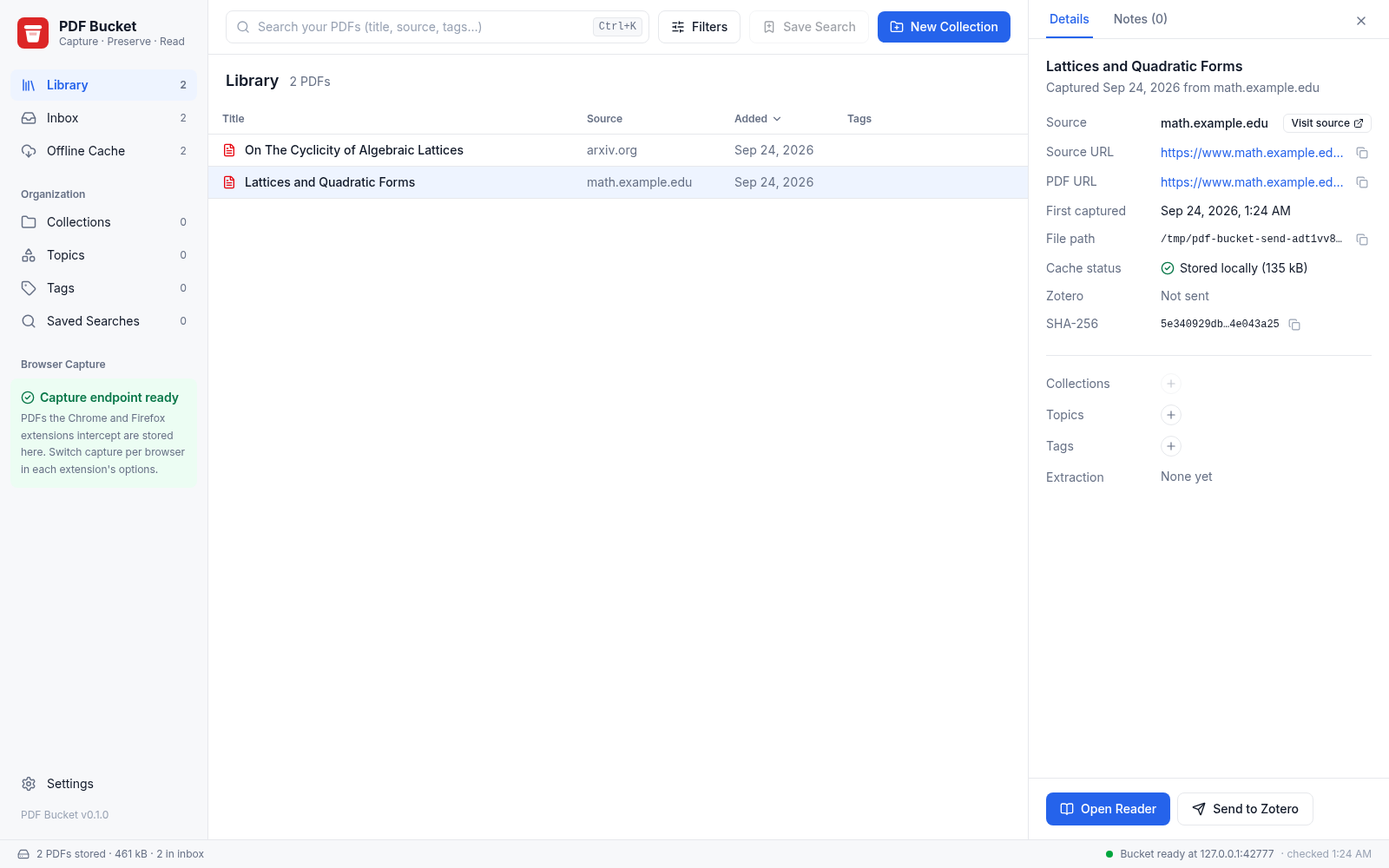
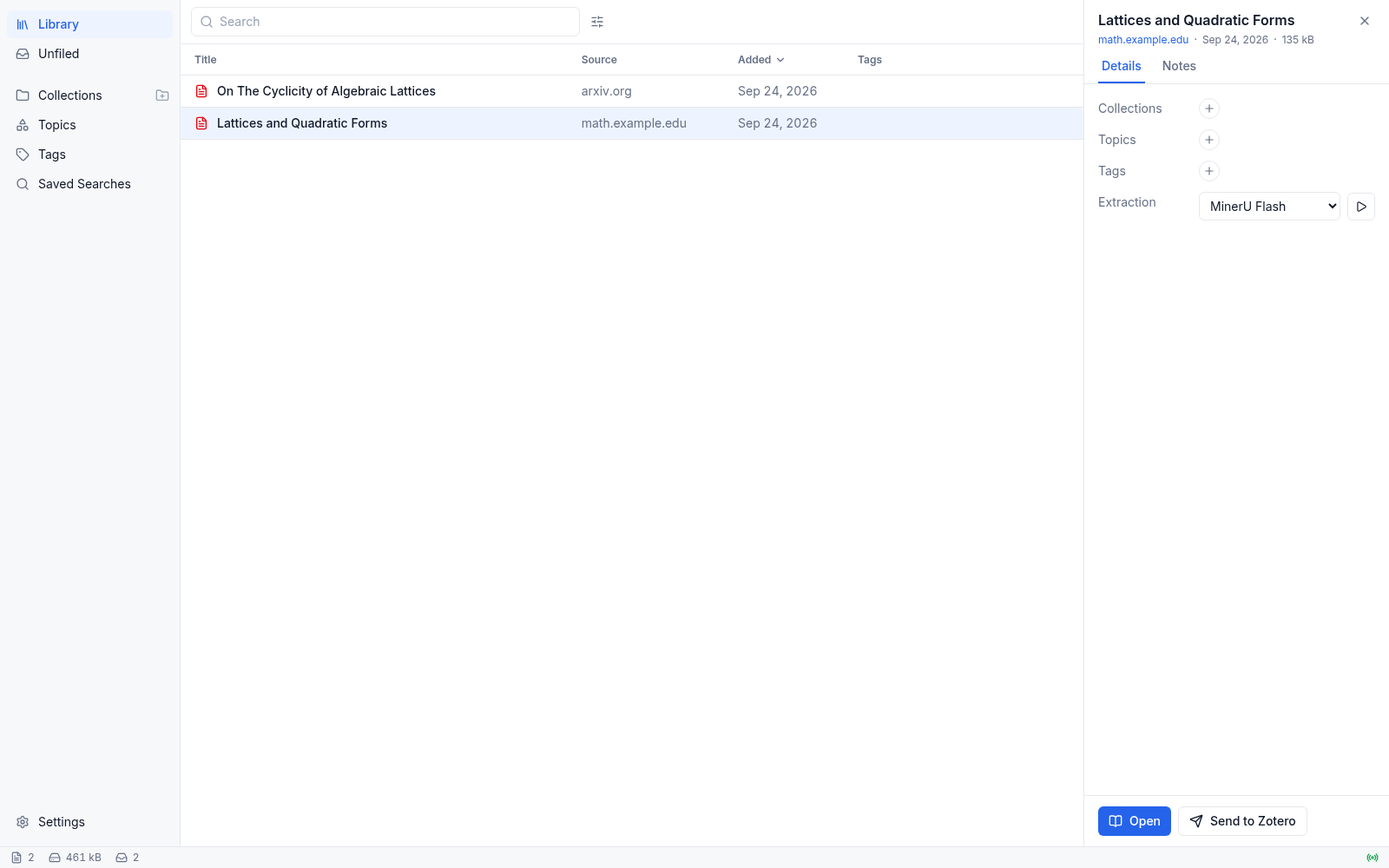
docs: describe the reading-app library, reader and send in M2, M3 and AGENTS.md
docs/m2.md lists what the library window, reader and settings now show and
the workflows tests/library-e2e.test.ts drives; the mockup table gains the
elements left out by decision (Offline Cache, reader provenance panel, the
descriptive settings sections). docs/m3.md: a completed send removes the
item; DELETE works on any item; the step table sits after the list
(flowmark de-indents a table nested in a list item, dzackgarza/flowmark#42).
AGENTS.md's mockup mapping follows. scripts/library_screenshots.py drives
the new labels (Search, Add tag combobox, New collection, Ctrl+P, Command,
Run extraction); M3 and M4 screenshots regenerated; the send-sent and
remove-confirm shots are gone with the states they showed.

Refs #17

diff --git a/scripts/library_screenshots.py b/scripts/library_screenshots.py
@@ -185,7 +185,7 @@ def chromium_screens(out: Path, origins: dict[str, str], filed: dict[str, str]) 
         page = browser.new_page(viewport=VIEWPORT)
 
         page.goto(origins["empty"])
-        page.get_by_text("No PDFs in the bucket yet").wait_for()
+        page.get_by_text("No PDFs yet").wait_for()
         shoot(page, out, "library-empty")
 
         page.goto(origins["broken"])
@@ -219,7 +219,7 @@ def chromium_screens(out: Path, origins: dict[str, str], filed: dict[str, str]) 
         shoot(page, out, "inspector-notes")
         page.get_by_role("tab", name="Details").click()
 
-        search = page.get_by_role("searchbox", name="Search your PDFs")
+        search = page.get_by_role("searchbox", name="Search")
         started = time.perf_counter()
         search.fill("flips mmp")
         page.wait_for_function("document.querySelectorAll('tbody tr').length < 1000")
@@ -234,12 +234,12 @@ def chromium_screens(out: Path, origins: dict[str, str], filed: dict[str, str]) 
 
         details = page.get_by_role("complementary", name="Item details")
         details.get_by_role("button", name="Add tag").click()
-        details.get_by_role("combobox", name="Add tag").fill("reread")
+        page.get_by_role("combobox", name="Tag").fill("reread")
         page.keyboard.press("Enter")
         details.get_by_role("button", name="Remove reread").wait_for()
         shoot(page, out, "inspector-tag-added")
 
-        page.get_by_role("button", name="New Collection").click()
+        page.get_by_role("button", name="New collection").click()
         page.get_by_role("dialog").get_by_role("textbox").fill("Reading Group")
         shoot(page, out, "dialog-new-collection")
         page.get_by_role("dialog").get_by_role("button", name="Create").click()
@@ -248,12 +248,12 @@ def chromium_screens(out: Path, origins: dict[str, str], filed: dict[str, str]) 
         page.goto(origins["seeded"])
         page.get_by_role("row").nth(1).wait_for()
 
-        page.keyboard.press("Control+k")
-        page.get_by_placeholder("Search PDFs, or type > for commands").fill("cone conjecture")
+        page.keyboard.press("Control+p")
+        page.get_by_placeholder("Go to PDF").fill("cone conjecture")
         shoot(page, out, "palette-items")
         page.keyboard.press("Escape")
         page.keyboard.press("Control+Shift+P")
-        page.get_by_placeholder("Run a command").wait_for()
+        page.get_by_placeholder("Command").wait_for()
         shoot(page, out, "palette-commands")
         page.keyboard.press("Escape")
 
@@ -271,10 +271,8 @@ def chromium_screens(out: Path, origins: dict[str, str], filed: dict[str, str]) 
         shoot(page, out, "organization-saved")
 
         page.goto(f"{origins['seeded']}/#/settings")
-        page.get_by_role("heading", name="Embedded Foundations").wait_for()
+        page.get_by_text("Library folder").wait_for()
         shoot(page, out, "settings")
-        page.get_by_role("heading", name="Embedded Foundations").scroll_into_view_if_needed()
-        shoot(page, out, "settings-foundations")
 
         page.goto(f"{origins['seeded']}/read/{quote(filed['reader'])}")
         page.frame_locator("iframe").locator(".page canvas").first.wait_for()
@@ -424,7 +422,7 @@ def send(out: Path) -> None:
             held: list[Route] = []
             page.route("**/api/items/*/zotero", lambda route: held.append(route))
             details.get_by_role("button", name="Send to Zotero").click()
-            details.get_by_role("button", name="Sending to Zotero…").wait_for()
+            details.get_by_role("button", name="Send to Zotero", disabled=True).wait_for()
             shoot(page, out, "send-sending")
             for route in held:
                 route.continue_()
@@ -433,18 +431,11 @@ def send(out: Path) -> None:
             shoot(page, out, "send-failed")
 
             page.get_by_role("row").filter(has_text="On The Cyclicity").click()
-            details.get_by_role("button", name="Remove from bucket").wait_for()
-            shoot(page, out, "send-sent")
-
             page.keyboard.press("Control+Shift+P")
-            page.get_by_placeholder("Run a command").fill("Send selected")
+            page.get_by_placeholder("Command").fill("Send Selected")
             page.keyboard.press("Enter")
             details.get_by_role("alert").wait_for()
             shoot(page, out, "send-refused")
-
-            details.get_by_role("button", name="Remove from bucket").click()
-            page.get_by_role("alertdialog").wait_for()
-            shoot(page, out, "send-remove-confirm")
             browser.close()
 
 
@@ -493,13 +484,13 @@ def extract(out: Path) -> None:
             plugin = details.get_by_label("Extraction plugin")
 
             page.get_by_role("row").filter(has_text="Lattices and Quadratic Forms").click()
-            details.get_by_role("button", name="Run").wait_for()
+            details.get_by_role("button", name="Run extraction").wait_for()
             shoot(page, out, "extract-idle")
 
             held: list[Route] = []
             page.route("**/api/items/*/extractions/*", lambda route: held.append(route))
-            details.get_by_role("button", name="Run").click()
-            details.get_by_role("button", name="Running…").wait_for()
+            details.get_by_role("button", name="Run extraction").click()
+            details.get_by_role("button", name="Run extraction", disabled=True).wait_for()
             shoot(page, out, "extract-running")
             for route in held:
                 route.continue_()
@@ -509,12 +500,12 @@ def extract(out: Path) -> None:
 
             page.get_by_role("row").filter(has_text="Ten Lectures on Integral Lattices").click()
             plugin.select_option("fail")
-            details.get_by_role("button", name="Run").click()
+            details.get_by_role("button", name="Run extraction").click()
             details.get_by_role("alert").wait_for()
             shoot(page, out, "extract-failed")
 
             plugin.select_option("markdown")
-            details.get_by_role("button", name="Run").click()
+            details.get_by_role("button", name="Run extraction").click()
             details.get_by_role("alert").filter(has_text="did not run").wait_for()
             shoot(page, out, "extract-rejected")
             browser.close()

diff --git a/docs/m3.md b/docs/m3.md
@@ -8,23 +8,27 @@ Recorded on 2026-09-24 (UTC 2026-09-23) on the development workstation against t
 
 1. `pdfbucket resolve <root> <key> plugins/manifests/resolvers.json` lists the item's identifier candidates in order: the source URL, the PDF URL, then the identifiers embedded in the PDF (`/arXivID` and `/DOI` in the document information dictionary, which arXiv's generated PDFs carry; `prism:doi` and `prism:isbn` in XMP). The first candidate that a plugin's identifier pattern accepts goes to that plugin on stdin; the plugin prints one BibTeX entry.
 
-2. With no accepted candidate, the entry is `@unpublished` (Zotero's manuscript type) carrying only the title hint. No other field is written.
+2. With no accepted candidate, the entry is `@unpublished` (Zotero's manuscript type) carrying only the title hint.
+   No other field is written.
 
-3. `import_bibtex` creates the item in the library root, except for an arXiv identifier: Zotero's BibTeX import maps `@misc` to `document` and maps no entry type to `preprint`, so an arXiv item is created with `import_by_identifier` on `arXiv:<id>`, Zotero's own arXiv translator (the arxiv resolver has already confirmed the id against arXiv). The bucket records the Zotero key in `organization.json` at once, then each later step as it lands:
+3. `import_bibtex` creates the item in the library root, except for an arXiv identifier: Zotero's BibTeX import maps `@misc` to `document` and maps no entry type to `preprint`, so an arXiv item is created with `import_by_identifier` on `arXiv:<id>`, Zotero's own arXiv translator (the arxiv resolver has already confirmed the id against arXiv).
+   The bucket records the Zotero key in `organization.json` at once, then each later step as it lands:
 
-   | Step | Write API call | What it writes |
-   | --- | --- | --- |
-   | `fields` | `update_item_fields` | `url` = the capture's source URL, `accessDate` = the capture time |
-   | `pdf` | `POST /attach` with the stored bytes, unless the item already has a stored PDF attachment whose file hashes to the capture's original SHA-256 | the stored PDF (provenance embedded), title "Full Text PDF"; or nothing, recording Zotero's own copy of the same bytes (the PDF an identifier import downloads) |
-   | `markdown` | `POST /attach` with the bytes of `<key>.md` | the extraction Markdown as `<ZoteroKey>_extracted.md`, the name the extraction loop's completion criterion looks for |
+| Step | Write API call | What it writes |
+| --- | --- | --- |
+| `fields` | `update_item_fields` | `url` = the capture's source URL, `accessDate` = the capture time |
+| `pdf` | `POST /attach` with the stored bytes, unless the item already has a stored PDF attachment whose file hashes to the capture's original SHA-256 | the stored PDF (provenance embedded), title "Full Text PDF"; or nothing, recording Zotero's own copy of the same bytes (the PDF an identifier import downloads) |
+| `markdown` | `POST /attach` with the bytes of `<key>.md` | the extraction Markdown as `<ZoteroKey>_extracted.md`, the name the extraction loop's completion criterion looks for |
 
-4. A send on an item with no step owed answers `409 already_sent` with the Zotero key and never contacts Zotero. A send that failed part way, or an extraction made after the send, leaves steps owed; the next send performs only those, on the same Zotero item.
+4. A send on an item with no step owed answers `409 already_sent` with the Zotero key and never contacts Zotero.
+   A send that failed part way, or an extraction made after the send, leaves steps owed; the next send performs only those, on the same Zotero item.
 
-5. `DELETE /api/items/<key>` moves a sent item's PDF, Markdown and artifact directory to the desktop trash (`pdfbucket remove`, send2trash). An item whose PDF has not reached Zotero answers `409 not_sent`. Nothing removes an item automatically.
+5. A send that completes every owed step removes the item from the bucket: `pdfbucket remove` moves the PDF, the Markdown and the artifact directory to the desktop trash, and the filing is dropped.
+   `DELETE /api/items/<key>` removes any item the same way without a send.
 
 Resolver failures answer `502 resolver_failed` with the plugin's exit code and last stderr line; a Zotero that refuses or does not answer gives `502 zotero_failed`.
 
-The inspector shows the item's Zotero key, send date and metadata source, and carries Send to Zotero and, once sent, Remove from bucket; the command palette has "Send selected PDF to Zotero".
+Send to Zotero is in the inspector, the row context menu and the command palette ("Send Selected PDF to Zotero"). A failed or refused send shows its reason in the inspector.
 
 ## Resolver plugins
 
@@ -56,17 +60,18 @@ Sends, with Zotero's top-level item count (`Total-Results` of `/api/users/0/item
 
 | Request | Response | Top-level items |
 | --- | --- | --- |
-| before any send | | 1929 |
+| before any send |  | 1929 |
 | `POST /api/items/2609.21174v1/zotero` | `200 {"itemKey":"JPVKRNNI","created":true,"performed":["fields","pdf"]}` | 1930 |
 | the same, again | `409 already_sent: 2609.21174v1 is already in Zotero as JPVKRNNI` | 1930 |
 | `POST /api/items/lecture-notes/zotero` | `200 {"itemKey":"RHRSN93X","created":true,"performed":["fields","pdf","markdown"]}` | 1931 |
 | the same, again | `409 already_sent: lecture-notes is already in Zotero as RHRSN93X` | 1931 |
 
-The first run sent `accessDate` as `YYYY-MM-DD HH:MM:SS`, which `update_item_fields` (a merge into the item's API JSON) drops. With the ISO form `YYYY-MM-DDTHH:MM:SSZ`, the `fields` step was marked owed again in `organization.json` and re-sent: both sends answered `200 {"created":false,"performed":["fields"]}` on JPVKRNNI and RHRSN93X, the count stayed 1931, and repeated sends answered 409 again.
+The first run sent `accessDate` as `YYYY-MM-DD HH:MM:SS`, which `update_item_fields` (a merge into the item's API JSON) drops.
+With the ISO form `YYYY-MM-DDTHH:MM:SSZ`, the `fields` step was marked owed again in `organization.json` and re-sent: both sends answered `200 {"created":false,"performed":["fields"]}` on JPVKRNNI and RHRSN93X, the count stayed 1931, and repeated sends answered 409 again.
 
 The two items read back through `/api/users/0/items/<key>` and `/children`:
 
-| | arXiv PDF | lecture notes |
+|  | arXiv PDF | lecture notes |
 | --- | --- | --- |
 | Zotero key | JPVKRNNI | RHRSN93X |
 | Metadata source | `arxiv` resolver on `https://arxiv.org/abs/2609.21174v1` | none (no identifier): manuscript entry |
@@ -91,7 +96,8 @@ Both items were then moved to the Zotero trash with the write API's `trash_item`
 
 ### arXiv send through Zotero's identifier import
 
-The run above created the arXiv item through `import_bibtex`, and it arrived as `document`: Zotero's BibTeX translator maps `@misc` to `document` and has no mapping to `preprint` for any entry type. The send now creates arXiv items with `import_by_identifier`. Rerun on 2026-09-23 over a fresh root with the same fixture (top-level count 1929 before):
+The run above created the arXiv item through `import_bibtex`, and it arrived as `document`: Zotero's BibTeX translator maps `@misc` to `document` and has no mapping to `preprint` for any entry type.
+The send now creates arXiv items with `import_by_identifier`. Rerun on 2026-09-23 over a fresh root with the same fixture (top-level count 1929 before):
 
 | Request | Response | Top-level items |
 | --- | --- | --- |
@@ -106,7 +112,9 @@ The run above created the arXiv item through `import_bibtex`, and it arrived as 
 | `archiveID` / `repository` / `DOI` | `arXiv:2609.21174` / `arXiv` / `10.48550/arXiv.2609.21174` |
 | children | PH2VKKI7 "Preprint PDF" (`application/pdf`), MAMQJMWA "Snapshot" (`text/html`) |
 
[1 lines of base64/hex data omitted]
+Zotero's import downloaded arXiv's PDF (and, per the user's Zotero preferences, a snapshot).
[1 lines of base64/hex data omitted]
+DPG4XII2 then went to the Zotero trash with `trash_item`; the count returned to 1929.
 
 ## Screenshots
 
@@ -114,16 +122,15 @@ Zotero's import downloaded arXiv's PDF (and, per the user's Zotero preferences, 
 
 | File | State |
 | --- | --- |
-| `m3/send-idle.png` | an unsent item: Zotero "Not sent", Send to Zotero |
-| `m3/send-sending.png` | the send request in flight: "Sending to Zotero…" |
-| `m3/send-failed.png` | Zotero does not answer: the failure and its reason; the button is back for a retry |
-| `m3/send-sent.png` | a sent item: its Zotero key, date and metadata source; "In Zotero as …"; Remove from bucket |
-| `m3/send-refused.png` | the palette's "Send selected PDF to Zotero" on a sent item: "Not sent again: … is already in Zotero as …" |
-| `m3/send-remove-confirm.png` | the confirmation before removal: the PDF and its extraction go to the desktop trash, Zotero keeps the item |
+| `m3/send-idle.png` | an item with Send to Zotero |
+| `m3/send-sending.png` | the send request in flight: the button disabled with a spinner |
+| `m3/send-failed.png` | Zotero does not answer: the reason; the button is back for a retry |
+| `m3/send-refused.png` | the palette's "Send Selected PDF to Zotero" on an item already sent: "… is already in Zotero as …" |
 
 ## The Zotero Connector path
 
-The reader page and its `citation_*` tags are unchanged by M3; `tests/server-capture.test.ts` checks the tags the Connector reads. The end-to-end check, `scripts/connector_save.py` with the Connector build in `tests/fixtures` (docs/m0.md), was re-run on 2026-09-24 against the provisioned bucket, whose reader page carries the M2 provenance panel:
+The reader page and its `citation_*` tags are unchanged by M3; `tests/server-capture.test.ts` checks the tags the Connector reads.
+The end-to-end check, `scripts/connector_save.py` with the Connector build in `tests/fixtures` (docs/m0.md), was re-run on 2026-09-24 against the provisioned bucket, whose reader page carries the M2 provenance panel:
 
 ```console
 $ uv run scripts/connector_save.py http://127.0.0.1:8770/read/1603.04246 connector.png

diff --git a/docs/m2.md b/docs/m2.md
@@ -63,8 +63,21 @@ The headline is the store's last line; the full store output is folded below it.
 
 ![Populated library with an item selected](m2/library-populated.png)
 
-Compared with mockup 1: the sidebar (Library, Inbox, Offline Cache with counts; Collections, Topics, Tags, Saved Searches with counts; browser capture panel; Settings), the search bar with its shortcut, Filters and New Collection, the table (title with PDF mark, source domain, date added, tag pills with overflow count), the inspector (Details and Notes tabs; source with Visit source, source URL, PDF URL, first captured, file path, cache status with size, SHA-256 with copy buttons; collections, topics and tags as editable pills) and the status bar are present.
-Differences are listed under [Mockup elements not reproduced](#mockup-elements-not-reproduced).
+- **Sidebar:** Library and Unfiled (items in no collection); Collections (with a new-collection button), Topics, Tags, Saved Searches; Settings.
+
+- **Top bar:** a search field (Ctrl+F), Filters, and Save search while a search is typed.
+
+- **Table:** title with PDF mark, source domain, date added, tag pills with an overflow count.
+  Double-click or Enter opens the reader; Delete deletes.
+
+- **Inspector:** the title; one line with the source page link, date added and size; Details (collections, topics, tags, extraction) and Notes; Open and Send to Zotero.
+
+- **Status bar:** PDFs, size on disk and unfiled count as icons with counts, and the capture indicator.
+
+- **Row context menu:** Open, Open in Browser, Add to Collection (existing or new), Add Tag…, Retrieve Metadata, Send to Zotero, Copy Link (source page, PDF), Show in Folder (desktop window), Delete… (the PDF moves to the desktop trash).
+  The webview's own page menu is suppressed outside text fields and selections.
+
+- **Filing:** collections, topics and tags are added through one combobox that picks an existing entry or creates one from the typed name.
 
 Filtering, the filters dialog, the notes tab, adding a tag from the inspector:
 
@@ -75,37 +88,39 @@ The inspector lists the Markdown and each artifact with its size:
 
 ![Extraction listed in the inspector](m2/inspector-extraction.png)
 
-The command palette, items and commands:
+Ctrl+P goes to a PDF by fuzzy title (fzf); Ctrl+Shift+P runs a command:
 
-![Palette, items](m2/palette-items.png) ![Palette, commands](m2/palette-commands.png)
+![Go to PDF](m2/palette-items.png) ![Commands](m2/palette-commands.png)
 
 In WebKitGTK at the window's 1400x900, the inspector overlays the table instead of narrowing it:
 
 ![Library in WebKitGTK](m2/webkit-library-populated.png)
 
+`tests/library-e2e.test.ts` drives these workflows in Chromium against captured fixtures: creating a collection by typing its name in the inspector, filing and tagging from the row menu, deleting to the trash, Ctrl+F, Ctrl+P and Ctrl+Shift+P, and the reader's back and view address.
+
 ### Reader (mockup 2)
 
-`/read/<key>` keeps M0's `citation_*` meta tags; the page adds a bar back to the library and the provenance panel read from the PDF.
+`/read/<key>` is PDF.js at full width under a bar with back, forward (Alt+← / Alt+→), the title and Copy link to this view.
+The address carries PDF.js's open parameters (`#page=…&zoom=…`), updated on every view change, so reloading or sharing the address reopens the same view.
+The page keeps M0's `citation_*` meta tags.
 
 ![Reader page](m2/reader.png) ![Reader page in WebKitGTK](m2/webkit-reader.png)
-
-Compared with mockup 2: title and capture line, back to the library, the PDF.js toolbar (page navigation, zoom, find, outline sidebar, annotation tools), and the panel's source information, capture details (first captured, file path, file size, SHA-256), collections, topics, tags and notes are present.
 
 ### Collections, topics, tags, saved searches (mockup 3)
 
 ![A collection](m2/organization-collections.png) ![A topic](m2/organization-topics.png) ![Tags](m2/organization-tags.png) ![A saved search](m2/organization-saved.png)
 
-Creating a collection from the New Collection dialog opens it:
+Creating a collection from the New collection dialog opens it:
 
 ![New collection dialog](m2/dialog-new-collection.png) ![The new collection](m2/organization-new-collection.png)
 
-Compared with mockup 3: the Collections / Topics / Tags / Saved Searches tabs, each entry with its count, subcollections nested under their parent, the selected entry's header (parent, name, count; New Subcollection, Rename, Delete for a collection; the stored query for a saved search) and its table.
+Compared with mockup 3: the Collections / Topics / Tags / Saved Searches tabs, subcollections nested under their parent, the selected entry's header (parent and name; New Subcollection, Rename, Delete for a collection; the stored query for a saved search) and its table.
 
 ### Settings (mockup 4)
 
-![Settings](m2/settings.png) ![Settings, Embedded Foundations](m2/settings-foundations.png)
+The library folder (Show in Folder in the desktop window) and the version.
 
-Compared with mockup 4: Browser Capture, Offline Cache (library folder, stored count and size, the filing file), Provenance & Recovery (the embedded fields), Zotero Integration, and Embedded Foundations (PDF.js with the pinned version from `pdf-bucket.config.json`) are present, plus a Server section from `/status`.
+![Settings](m2/settings.png)
 
 ## Item titles
 
@@ -137,14 +152,15 @@ The roadmap card's Decision Log records them.
 | Mockup | Element | Why it is absent |
 | --- | --- | --- |
 | 1 | Authors column and inspector field | Stored items carry no creators until the resolver plugins (M3) supply them. |
-| 1 | Status column (Cached, Offline, Needs re-fetch) | Every stored item is a local file by construction; the inspector's cache status shows it with the size. Re-fetch is M5. |
+| 1 | Status column (Cached, Offline, Needs re-fetch), Offline Cache view | Every stored item is a local file, so an Offline Cache view would equal Library. Re-fetch is `just rebuild-cache` (M5). |
 | 1 | Quick filters (Unread, Cached Offline, Needs Re-fetch, Added This Week), sort menu, grid view | No read state or re-fetch state exists; sorting is by column header. |
 | 1 | Import URL, Add Folder | Capture from the browser is the only ingest path in the roadmap. |
 | 1 | Row checkboxes, bulk tag | The reused table selects one row. |
 | 1 | First-page thumbnail, Related tab | Needs PDF rendering in the library window; PDF.js runs in the reader page. |
 | 1 | Last verified, mirror URLs | Later enrichment (mirrors) and M5 (re-checking URLs). |
-| 1 | Reveal Cache, Send to Zotero | Opening the folder needs a desktop action; sending is M3. |
-| 1, 4 | Chrome and Firefox toggles | They live in each extension's options page (M1). The sidebar and settings show the capture endpoint's state instead. |
+| 1, 4 | Chrome and Firefox toggles, browser capture panel | Each extension's toolbar popup holds its capture switch (M1); the status bar shows whether captures can land. |
+| 2 | Provenance panel beside the reader | The reader is for reading; the source page and PDF links are in the inspector and the row menu, and the rest travels inside the PDF. |
+| 4 | Provenance & Recovery, Zotero Integration, Server, Embedded Foundations sections | They describe the app instead of setting anything. |
 | 2 | Collection list column beside the reader | The reader is its own page; it links back to the library. |
 | 2 | Rebuild from metadata | The cache-rebuild recipe is M5. |
 | 3 | Collection cards with descriptions, pins, offline toggle, recent activity | Collections carry a name and a parent only; entries render as the reused tree list. |

diff --git a/AGENTS.md b/AGENTS.md
@@ -100,18 +100,18 @@ to build from scratch.
 
 | Mockup | Element | Where it lives |
 | --- | --- | --- |
-| library (1) | Library / Inbox / Offline Cache | bucket index views; every stored item is cached by construction |
+| library (1) | Library / Inbox | bucket index views: Library and Unfiled (items in no collection, Zotero's term); the mockup's Offline Cache equals Library and is not a view |
 | library (1) | Collections, Tags, Saved Searches | `zotero-gui`'s sidebar and table, cribbed, over the bucket index; topics are a `topic:` tag namespace or saved searches |
 | library (1) | Chrome / Firefox capture toggles | capture extension options, one build per browser |
-| library (1) | Details: Source, Source URL, First captured, File path, Cache status, SHA256 | provenance embedded in the PDF, shown by the reused inspector |
+| library (1) | Details: Source, Source URL, First captured, File path, Cache status, SHA256 | provenance embedded in the PDF; the inspector shows the source page link, date and size, and the row menu copies the links |
 | library (1) | Send to Zotero | the send action: resolver plugins to BibTeX, then `import_bibtex` and `attach_bytes` on the local write API; or open the reader URL in a browser and press the Zotero Connector |
 | reader (2) | reader, outline, search in document, highlights, notes | PDF.js prebuilt viewer in an iframe; highlights saved into the PDF by `saveDocument()` |
-| reader (2) | Provenance panel, mirror URLs | embedded provenance; mirrors are later enrichment |
+| reader (2) | Provenance panel, mirror URLs | not in the reader: reading is full-width PDF.js; mirrors are later enrichment |
 | reader (2) | Rebuild from metadata | the cache-rebuild recipe |
 | collections (3) | Smart Collection rules, subcollections | saved searches; nested collections in the index |
-| settings (4) | Browser Capture | extension options page |
-| settings (4) | Zotero Integration | the local write API on port 23119; library target is Zotero's selected collection |
-| settings (4) | Embedded Foundations | PDF.js (reader), WXT extension (capture), subprocess plugins (extraction, resolvers), Zotero Connector and local write API (Zotero bridge), Tauri (window) |
+| settings (4) | Browser Capture | each extension's toolbar popup and options page; the library's status bar shows whether captures can land |
+| settings (4) | Zotero Integration | the local write API on port 23119; library target is Zotero's selected collection; no settings page section |
+| settings (4) | Provenance & Recovery, Server, Embedded Foundations | not in the app: they describe it instead of setting anything |
 
 When a mockup and a reused component disagree on a label, keep the component's label in
 code and note the mockup term once in the plan's Decision Log.
